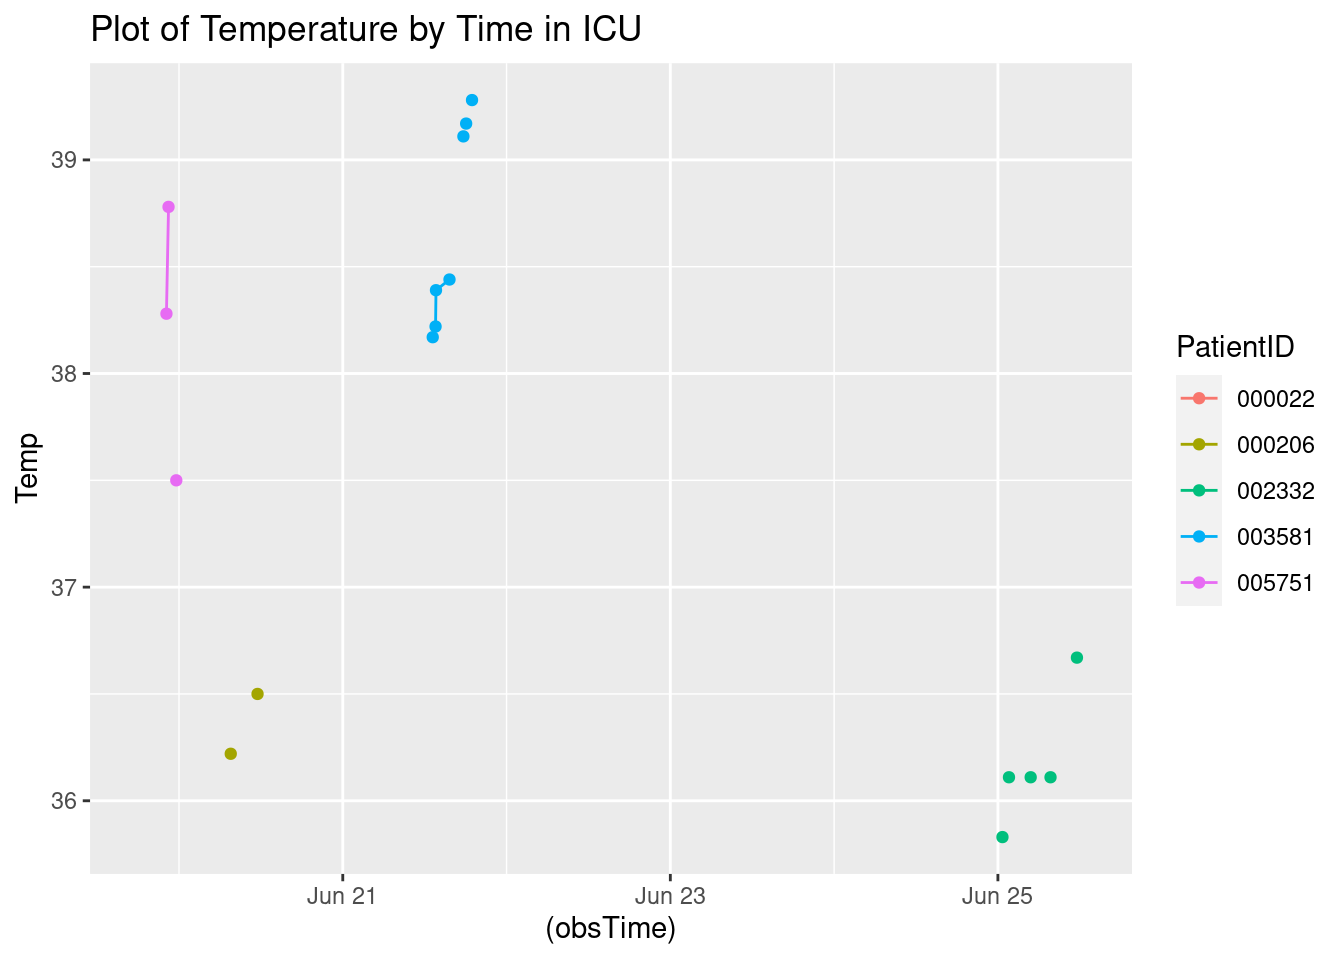
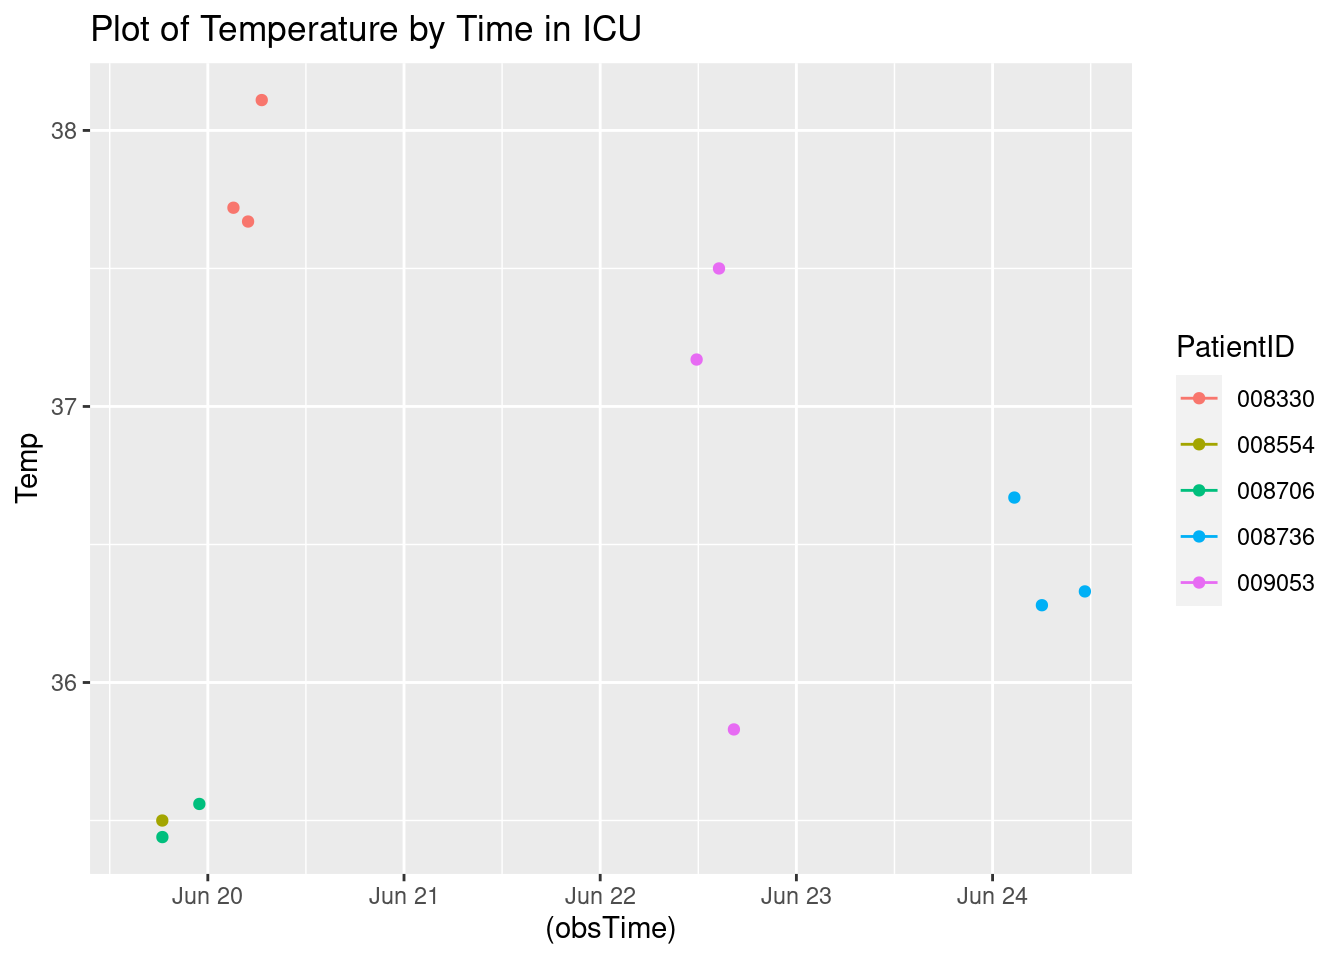
Updated report

diff --git a/A7.html b/A7.html
@@ -114,7 +114,7 @@ pre > code.sourceCode > span > a:first-child::before { text-decoration: underlin
 </div>
 <div class="sourceCode cell-code" id="cb4"><pre class="sourceCode r code-with-copy"><code class="sourceCode r"><span id="cb4-1"><a href="#cb4-1" aria-hidden="true" tabindex="-1"></a><span class="fu">toc</span>()</span></code><button title="Copy to Clipboard" class="code-copy-button"><i class="bi"></i></button></pre></div>
 <div class="cell-output cell-output-stdout">
-<pre><code>5.143 sec elapsed</code></pre>
+<pre><code>5.186 sec elapsed</code></pre>
 </div>
 <div class="sourceCode cell-code" id="cb6"><pre class="sourceCode r code-with-copy"><code class="sourceCode r"><span id="cb6-1"><a href="#cb6-1" aria-hidden="true" tabindex="-1"></a><span class="fu">tic</span>()</span>
 <span id="cb6-2"><a href="#cb6-2" aria-hidden="true" tabindex="-1"></a>test1<span class="ot">=</span><span class="fu">makeSepsisDataset</span>(<span class="at">n=</span><span class="dv">50</span>,<span class="at">read_fn =</span> <span class="st">"read_delim"</span>)</span>
@@ -124,7 +124,7 @@ pre > code.sourceCode > span > a:first-child::before { text-decoration: underlin
 </div>
 <div class="sourceCode cell-code" id="cb8"><pre class="sourceCode r code-with-copy"><code class="sourceCode r"><span id="cb8-1"><a href="#cb8-1" aria-hidden="true" tabindex="-1"></a><span class="fu">toc</span>()</span></code><button title="Copy to Clipboard" class="code-copy-button"><i class="bi"></i></button></pre></div>
 <div class="cell-output cell-output-stdout">
-<pre><code>20.552 sec elapsed</code></pre>
+<pre><code>20.227 sec elapsed</code></pre>
 </div>
 <div class="sourceCode cell-code" id="cb10"><pre class="sourceCode r code-with-copy"><code class="sourceCode r"><span id="cb10-1"><a href="#cb10-1" aria-hidden="true" tabindex="-1"></a><span class="co"># n=100</span></span>
 <span id="cb10-2"><a href="#cb10-2" aria-hidden="true" tabindex="-1"></a><span class="fu">tic</span>()</span>
@@ -135,7 +135,7 @@ pre > code.sourceCode > span > a:first-child::before { text-decoration: underlin
 </div>
 <div class="sourceCode cell-code" id="cb12"><pre class="sourceCode r code-with-copy"><code class="sourceCode r"><span id="cb12-1"><a href="#cb12-1" aria-hidden="true" tabindex="-1"></a><span class="fu">toc</span>()</span></code><button title="Copy to Clipboard" class="code-copy-button"><i class="bi"></i></button></pre></div>
 <div class="cell-output cell-output-stdout">
-<pre><code>9.467 sec elapsed</code></pre>
+<pre><code>9.656 sec elapsed</code></pre>
 </div>
 <div class="sourceCode cell-code" id="cb14"><pre class="sourceCode r code-with-copy"><code class="sourceCode r"><span id="cb14-1"><a href="#cb14-1" aria-hidden="true" tabindex="-1"></a><span class="fu">tic</span>()</span>
 <span id="cb14-2"><a href="#cb14-2" aria-hidden="true" tabindex="-1"></a>test1<span class="ot">=</span><span class="fu">makeSepsisDataset</span>(<span class="at">n=</span><span class="dv">100</span>,<span class="at">read_fn =</span> <span class="st">"read_delim"</span>)</span>
@@ -145,7 +145,7 @@ pre > code.sourceCode > span > a:first-child::before { text-decoration: underlin
 </div>
 <div class="sourceCode cell-code" id="cb16"><pre class="sourceCode r code-with-copy"><code class="sourceCode r"><span id="cb16-1"><a href="#cb16-1" aria-hidden="true" tabindex="-1"></a><span class="fu">toc</span>()</span></code><button title="Copy to Clipboard" class="code-copy-button"><i class="bi"></i></button></pre></div>
 <div class="cell-output cell-output-stdout">
-<pre><code>37.824 sec elapsed</code></pre>
+<pre><code>35.487 sec elapsed</code></pre>
 </div>
 <div class="sourceCode cell-code" id="cb18"><pre class="sourceCode r code-with-copy"><code class="sourceCode r"><span id="cb18-1"><a href="#cb18-1" aria-hidden="true" tabindex="-1"></a><span class="co"># n=500</span></span>
 <span id="cb18-2"><a href="#cb18-2" aria-hidden="true" tabindex="-1"></a><span class="fu">tic</span>()</span>
@@ -156,7 +156,7 @@ pre > code.sourceCode > span > a:first-child::before { text-decoration: underlin
 </div>
 <div class="sourceCode cell-code" id="cb20"><pre class="sourceCode r code-with-copy"><code class="sourceCode r"><span id="cb20-1"><a href="#cb20-1" aria-hidden="true" tabindex="-1"></a><span class="fu">toc</span>()</span></code><button title="Copy to Clipboard" class="code-copy-button"><i class="bi"></i></button></pre></div>
 <div class="cell-output cell-output-stdout">
-<pre><code>45.612 sec elapsed</code></pre>
+<pre><code>45.623 sec elapsed</code></pre>
 </div>
 <div class="sourceCode cell-code" id="cb22"><pre class="sourceCode r code-with-copy"><code class="sourceCode r"><span id="cb22-1"><a href="#cb22-1" aria-hidden="true" tabindex="-1"></a><span class="fu">tic</span>()</span>
 <span id="cb22-2"><a href="#cb22-2" aria-hidden="true" tabindex="-1"></a>test1<span class="ot">=</span><span class="fu">makeSepsisDataset</span>(<span class="at">n=</span><span class="dv">500</span>,<span class="at">read_fn =</span> <span class="st">"read_delim"</span>)</span>
@@ -166,7 +166,7 @@ pre > code.sourceCode > span > a:first-child::before { text-decoration: underlin
 </div>
 <div class="sourceCode cell-code" id="cb24"><pre class="sourceCode r code-with-copy"><code class="sourceCode r"><span id="cb24-1"><a href="#cb24-1" aria-hidden="true" tabindex="-1"></a><span class="fu">toc</span>()</span></code><button title="Copy to Clipboard" class="code-copy-button"><i class="bi"></i></button></pre></div>
 <div class="cell-output cell-output-stdout">
-<pre><code>189.473 sec elapsed</code></pre>
+<pre><code>177.645 sec elapsed</code></pre>
 </div>
 </div>
 <p><strong>Task 3</strong></p>
@@ -192,7 +192,7 @@ pre > code.sourceCode > span > a:first-child::before { text-decoration: underlin
 <span id="cb28-4"><a href="#cb28-4" aria-hidden="true" tabindex="-1"></a></span>
 <span id="cb28-5"><a href="#cb28-5" aria-hidden="true" tabindex="-1"></a><span class="fu">Sys.time</span>()</span></code><button title="Copy to Clipboard" class="code-copy-button"><i class="bi"></i></button></pre></div>
 <div class="cell-output cell-output-stdout">
-<pre><code>[1] "2023-06-19 14:22:04 UTC"</code></pre>
+<pre><code>[1] "2023-06-19 15:23:26 UTC"</code></pre>
 </div>
 <div class="sourceCode cell-code" id="cb30"><pre class="sourceCode r code-with-copy"><code class="sourceCode r"><span id="cb30-1"><a href="#cb30-1" aria-hidden="true" tabindex="-1"></a>dfnew <span class="ot">&lt;-</span> df <span class="sc">%&gt;%</span></span>
 <span id="cb30-2"><a href="#cb30-2" aria-hidden="true" tabindex="-1"></a>  <span class="fu">subset</span>(SepsisLabel<span class="sc">==</span><span class="dv">1</span>)</span>
@@ -221,49 +221,49 @@ pre > code.sourceCode > span > a:first-child::before { text-decoration: underlin
 </thead>
 <tbody>
 <tr class="odd">
-<td style="text-align: left;">000022</td>
+<td style="text-align: left;">008330</td>
+<td style="text-align: right;">16</td>
+<td style="text-align: right;">84</td>
+<td style="text-align: right;">NA</td>
 <td style="text-align: right;">18</td>
-<td style="text-align: right;">81</td>
-<td style="text-align: right;">NA</td>
-<td style="text-align: right;">21</td>
 <td style="text-align: right;">1</td>
-<td style="text-align: left;">2023-06-20 08:17:19</td>
+<td style="text-align: left;">2023-06-20 07:12:50</td>
 </tr>
 <tr class="even">
-<td style="text-align: left;">000206</td>
-<td style="text-align: right;">22</td>
-<td style="text-align: right;">114</td>
-<td style="text-align: right;">NA</td>
-<td style="text-align: right;">25</td>
-<td style="text-align: right;">1</td>
-<td style="text-align: left;">2023-06-20 11:56:33</td>
-</tr>
-<tr class="odd">
-<td style="text-align: left;">002332</td>
-<td style="text-align: right;">143</td>
-<td style="text-align: right;">103</td>
-<td style="text-align: right;">NA</td>
-<td style="text-align: right;">24</td>
-<td style="text-align: right;">1</td>
-<td style="text-align: left;">2023-06-25 12:44:41</td>
-</tr>
-<tr class="even">
-<td style="text-align: left;">003581</td>
-<td style="text-align: right;">53</td>
-<td style="text-align: right;">100</td>
-<td style="text-align: right;">39.28</td>
-<td style="text-align: right;">22</td>
-<td style="text-align: right;">1</td>
-<td style="text-align: left;">2023-06-21 18:56:21</td>
-</tr>
-<tr class="odd">
-<td style="text-align: left;">005751</td>
-<td style="text-align: right;">13</td>
-<td style="text-align: right;">50</td>
+<td style="text-align: left;">008554</td>
+<td style="text-align: right;">7</td>
+<td style="text-align: right;">93</td>
 <td style="text-align: right;">NA</td>
 <td style="text-align: right;">15</td>
 <td style="text-align: right;">1</td>
-<td style="text-align: left;">2023-06-20 02:14:29</td>
+<td style="text-align: left;">2023-06-19 20:28:46</td>
+</tr>
+<tr class="odd">
+<td style="text-align: left;">008706</td>
+<td style="text-align: right;">8</td>
+<td style="text-align: right;">NA</td>
+<td style="text-align: right;">NA</td>
+<td style="text-align: right;">NA</td>
+<td style="text-align: right;">1</td>
+<td style="text-align: left;">2023-06-19 23:12:02</td>
+</tr>
+<tr class="even">
+<td style="text-align: left;">008736</td>
+<td style="text-align: right;">117</td>
+<td style="text-align: right;">104</td>
+<td style="text-align: right;">36.33</td>
+<td style="text-align: right;">26</td>
+<td style="text-align: right;">1</td>
+<td style="text-align: left;">2023-06-24 11:17:27</td>
+</tr>
+<tr class="odd">
+<td style="text-align: left;">009053</td>
+<td style="text-align: right;">74</td>
+<td style="text-align: right;">107</td>
+<td style="text-align: right;">35.83</td>
+<td style="text-align: right;">14</td>
+<td style="text-align: right;">1</td>
+<td style="text-align: left;">2023-06-22 16:21:23</td>
 </tr>
 </tbody>
 </table>
